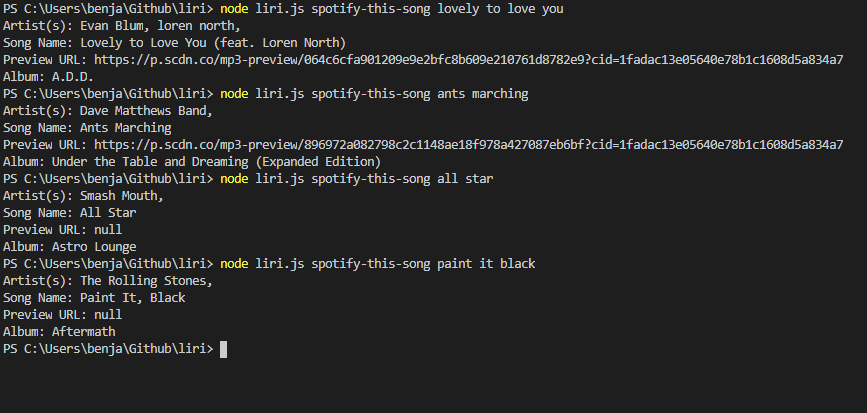
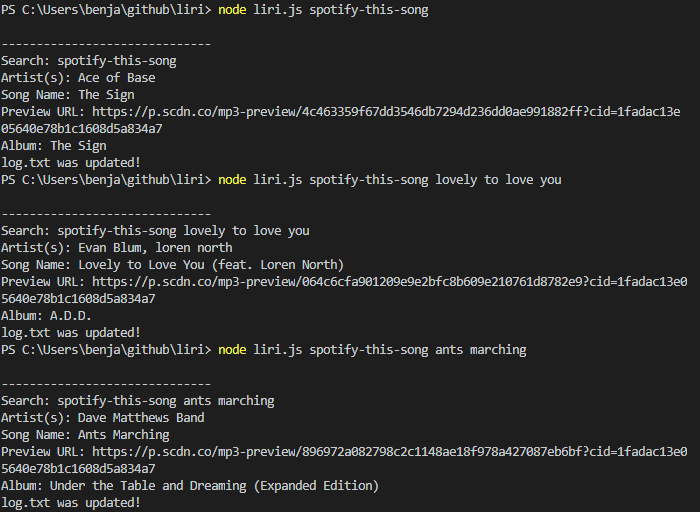
added log.txt support and updated screenshots

Changed region(s): [[0.0, 0.0, 0.99, 1.0]]

diff --git a/liri.js b/liri.js
@@ -11,7 +11,7 @@ var searchType=process.argv[2];
 var searchTerm=process.argv.slice(3).join(" ");
 
 
-function search(searchType, SearchTerm){
+function search(searchType, searchTerm){
     if(searchType==="concert-this")
     {
         var artist="celine+dion";
@@ -23,9 +23,16 @@ function search(searchType, SearchTerm){
         axios.get(bandURL).then(
         function(response) {
         var result = response.data[0];
-        console.log("Venue Name: " + result.venue.name);
-        console.log("Venue Location: " + result.venue.city + ", " + result.venue.country);
-        console.log("Event Date: " + moment(result.datetime).format("MM/DD/YYYY"));
+        var outputString="\n" +"------------------------------" + "\n" 
+                          + "Search: " + searchType + " " + searchTerm + "\n" 
+                          + "Venue Name: " + result.venue.name + "\n"
+                          + "Venue Location: " + result.venue.city + ", " + result.venue.country + "\n"
+                          + "Event Date: " + moment(result.datetime).format("MM/DD/YYYY");
+        //console.log("Venue Name: " + result.venue.name);
+        //console.log("Venue Location: " + result.venue.city + ", " + result.venue.country);
+        //console.log("Event Date: " + moment(result.datetime).format("MM/DD/YYYY"));
+        console.log(outputString);
+        appendLog(outputString);
         })
         .catch(function(error) {
         if (error.response) {
@@ -62,11 +69,19 @@ function search(searchType, SearchTerm){
         {
             artistString = artistString + result.artists[i].name + ", ";
         }
-        artistString.substring(0,artistString.length-2);
-        console.log("Artist(s): " + artistString);
-        console.log("Song Name: " + result.name);
-        console.log("Preview URL: " + result.preview_url);
-        console.log("Album: " + result.album.name);
+        artistString=artistString.substring(0,artistString.length-2);
+        var outputString="\n" + "------------------------------" + "\n" 
+                        + "Search: " + searchType + " " + searchTerm + "\n" 
+                        + "Artist(s): " + artistString + "\n"
+                        + "Song Name: " + result.name + "\n"
+                        + "Preview URL: " + result.preview_url + "\n"
+                        + "Album: " + result.album.name;
+        //console.log("Artist(s): " + artistString);
+        //console.log("Song Name: " + result.name);
+        //console.log("Preview URL: " + result.preview_url);
+        //console.log("Album: " + result.album.name);
+        console.log(outputString);
+        appendLog(outputString);
         });
     }
     else if(searchType==="movie-this")
@@ -82,9 +97,9 @@ function search(searchType, SearchTerm){
         axios.get(movieURL).then(
         function(response) {
         var result=response.data;
-        console.log("Title: " + result.Title);
-        console.log("Release Year: " + result.Year);
-        console.log("IMDB Rating: " + result.imdbRating);
+        //console.log("Title: " + result.Title);
+        //console.log("Release Year: " + result.Year);
+        //console.log("IMDB Rating: " + result.imdbRating);
         var tomatoString="N/A";
         for(var i=0; i<result.Ratings.length; i++)
         {
@@ -93,11 +108,25 @@ function search(searchType, SearchTerm){
                 tomatoString=result.Ratings[i].Value;
             }
         }
-        console.log("Rotten Tomatoes Rating: " + tomatoString);
-        console.log("Country: " + result.Country);
-        console.log("Language: " + result.Language);
-        console.log("Plot: " + result.Plot);
-        console.log("Actors: " + result.Actors);
+        //console.log("Rotten Tomatoes Rating: " + tomatoString);
+        //console.log("Country: " + result.Country);
+        //console.log("Language: " + result.Language);
+        //console.log("Plot: " + result.Plot);
+        //console.log("Actors: " + result.Actors);
+        //console.log("HERE");
+        var outputString="\n" +"------------------------------" + "\n" 
+                        + "Search: " + searchType + " " + searchTerm + "\n" 
+                        + "Title: " + result.Title + "\n"
+                        + "Release Year: " + result.Year + "\n"
+                        + "Preview URL: " + result.preview_url + "\n"
+                        + "IMDB Rating: " + result.imdbRating + "\n"
+                        + "Rotten Tomatoes Rating: " + tomatoString + "\n"
+                        + "Country: " + result.Country + "\n"
+                        + "Language: " + result.Language + "\n"
+                        + "Plot: " + result.Plot + "\n"
+                        + "Actors: " + result.Actors;
+        console.log(outputString);
+        appendLog(outputString);
     })
     .catch(function(error) {
     if (error.response) {
@@ -115,6 +144,15 @@ function search(searchType, SearchTerm){
     console.log(error.config);
     });
   }
+}
+
+function appendLog(outputString){
+  fs.appendFile("log.txt", outputString, function(err) {
+    if (err) {
+      return console.log(err);
+    }
+    console.log("log.txt was updated!");
+  });
 }
 
 if(searchType==="do-what-it-says")

diff --git a/README.md b/README.md
@@ -19,6 +19,8 @@ Example:
 Example:  
 ![alt text](https://github.com/benjamintownsend02/LIRI/blob/master/screenshots/do-what.PNG)
 
+The search and its output is printed to console and appended to log.txt.
+
 Failure to enter a search term results in results being returned for a default term (e.g. the singer celine dion).
 
 ## Dependencies
@@ -34,8 +36,6 @@ Additionally, the user must currently provide a .env file with valid spotify ID 
 
 ## Other Information
 Version: 1.0
-
-Planned Improvements: .txt file output logging to log.txt (currently unused)
 
 Author: benjamintownsend02
 
